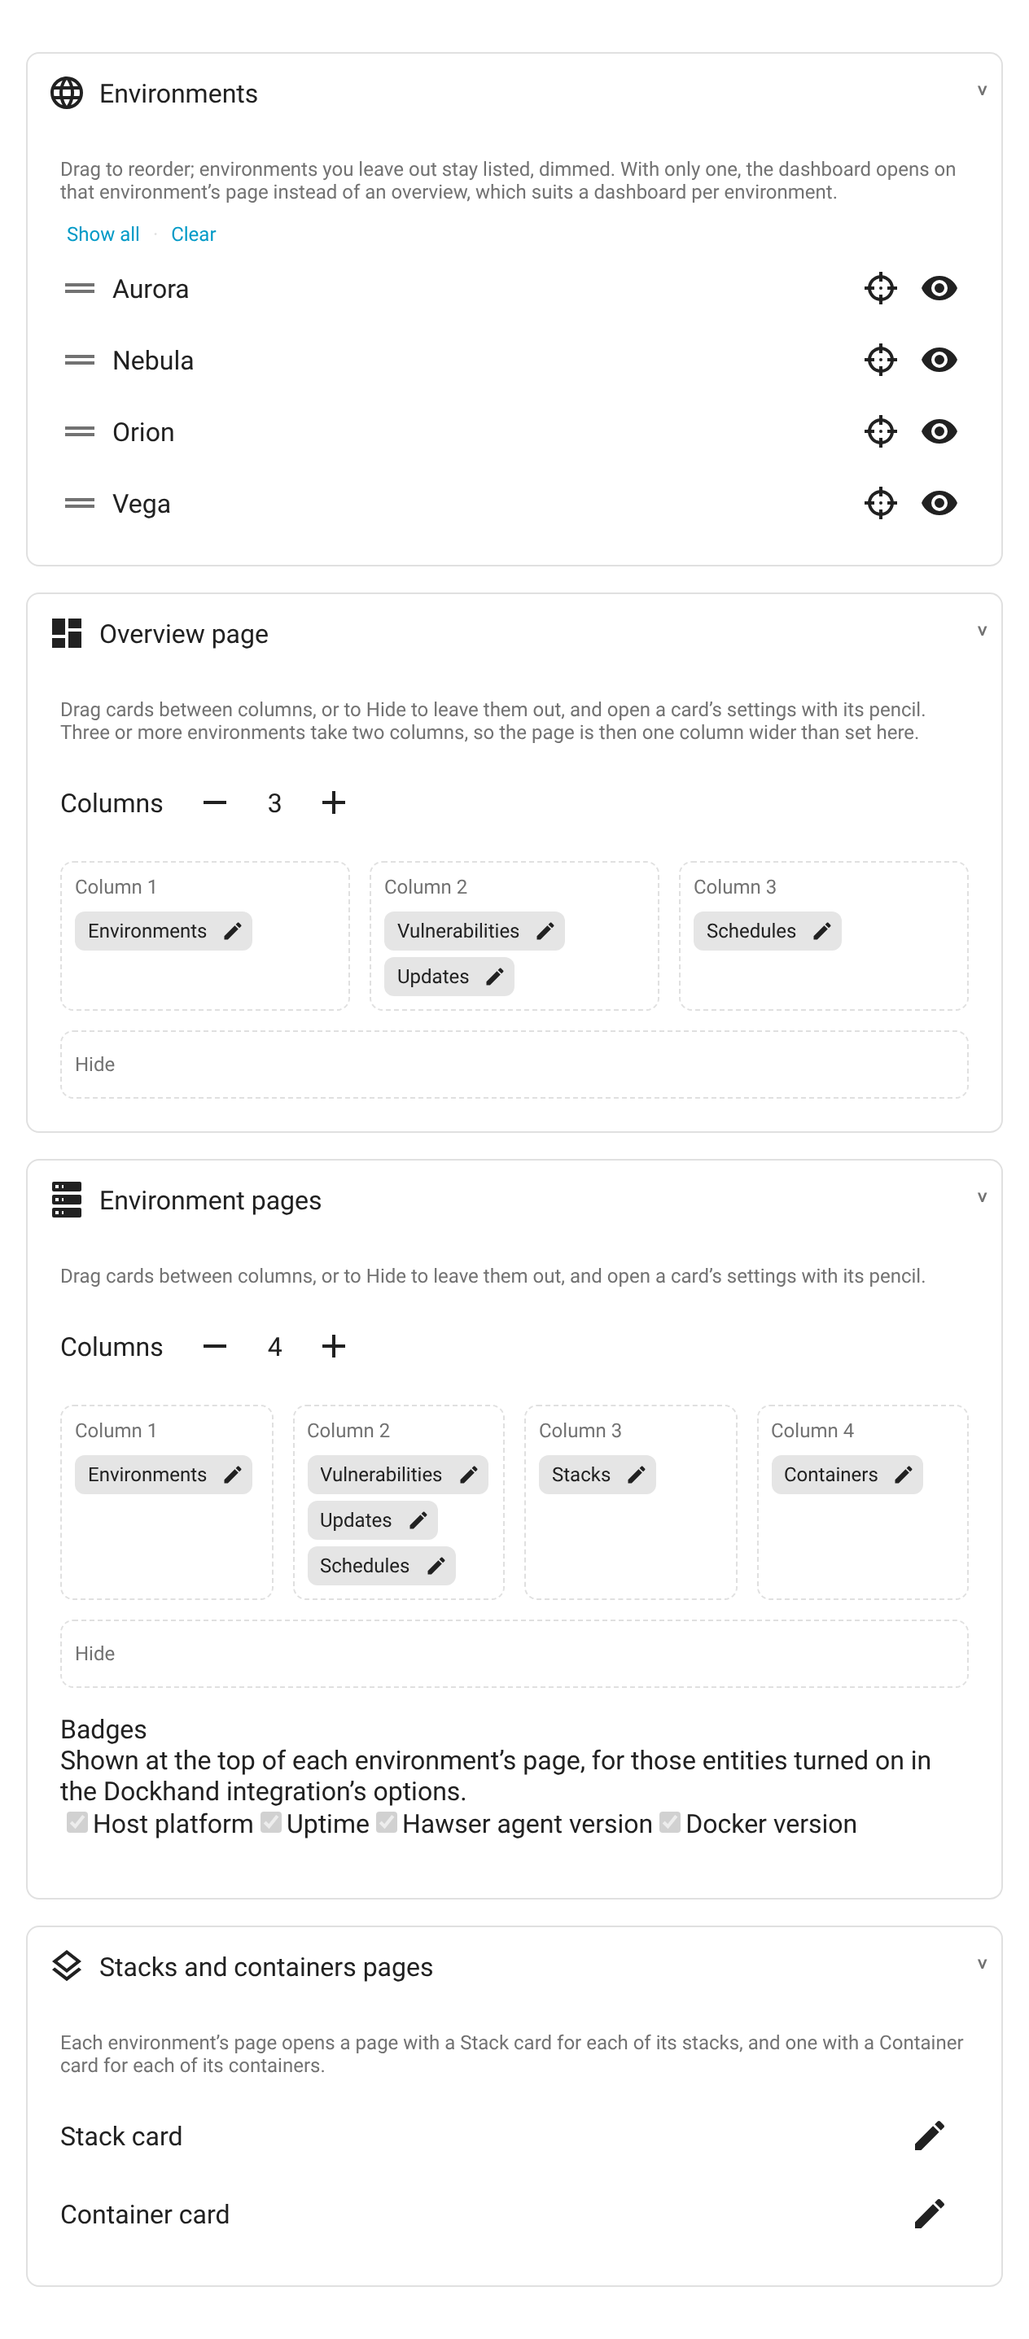
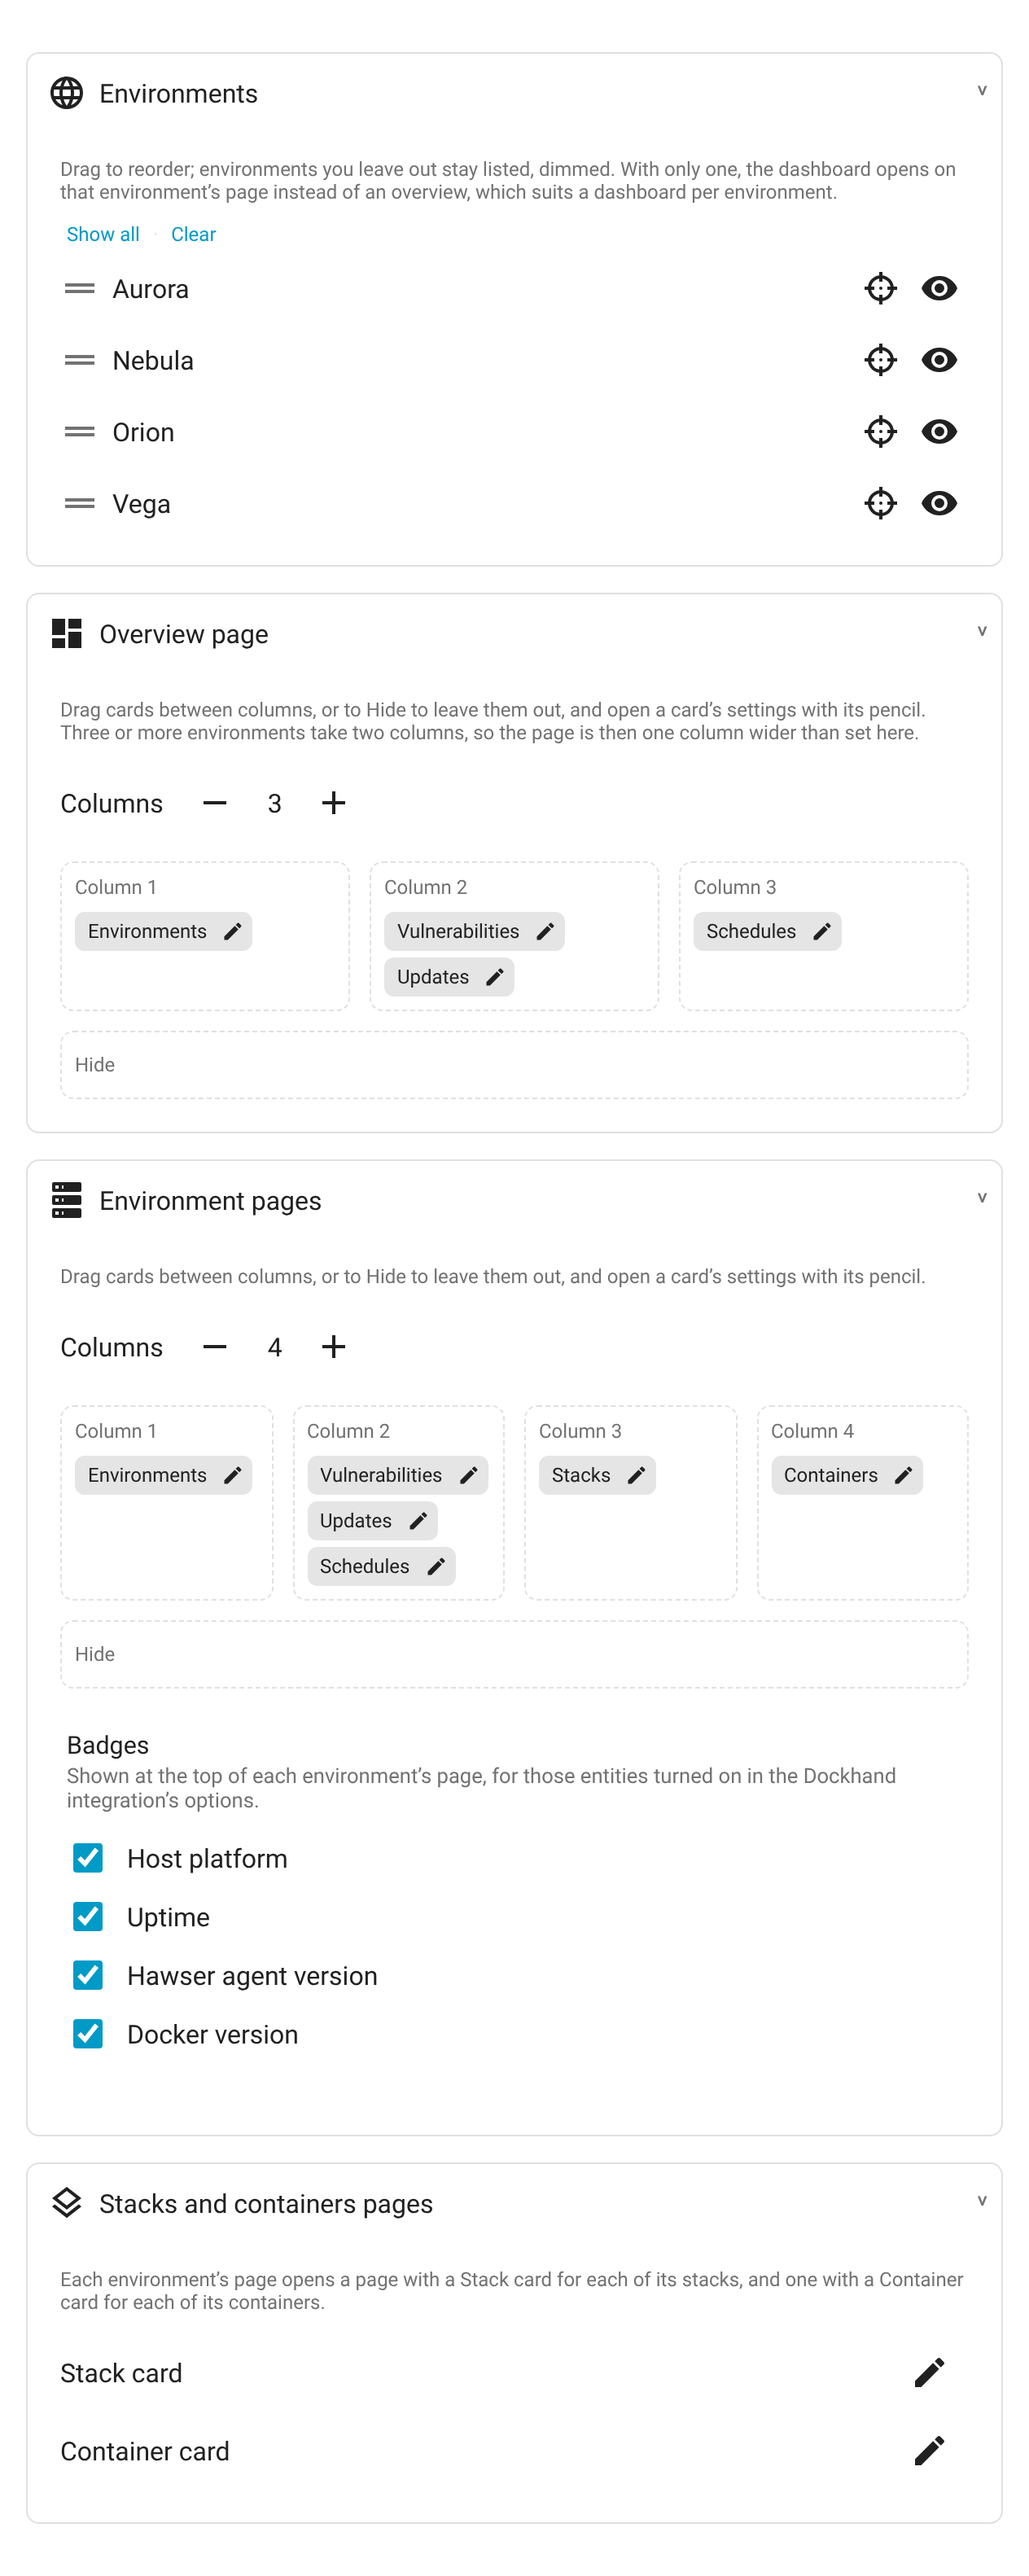
Docs: theme-matched screenshots everywhere, no fold on the Environment card page
Claude-Session: https://claude.ai/code/session_01Y5FKGqp1jA7mdqNGnXYnti

diff --git a/scripts/screenshot-harness/index.html b/scripts/screenshot-harness/index.html
@@ -101,84 +101,6 @@
    * spacing and layout," not a pixel-perfect HA clone — see this
    * directory's README for why that distinction is fine for what this
    * harness is actually for. */
-  .shim-form-row {
-    display: flex;
-    align-items: center;
-    justify-content: space-between;
-    gap: 12px;
-    padding: 10px 4px;
-    border-bottom: 1px solid var(--divider-color);
-    flex-wrap: wrap;
-  }
-  .shim-form-row:last-child {
-    border-bottom: none;
-  }
-  .shim-expansion-panel {
-    border: 1px solid var(--divider-color, #444);
-    border-radius: 8px;
-    margin: 16px 0;
-    overflow: hidden;
-  }
-  .shim-expansion-header {
-    display: flex;
-    align-items: center;
-    gap: 8px;
-    padding: 12px 8px;
-    font-weight: 500;
-  }
-  .shim-expansion-content {
-    padding: 4px 8px 8px;
-    border-top: 1px solid var(--divider-color, #444);
-  }
-  .shim-grid {
-    display: grid;
-    grid-template-columns: repeat(auto-fit, minmax(200px, 1fr));
-    gap: 8px;
-  }
-  .shim-grid-cell .shim-form-row {
-    border-bottom: none;
-  }
-  .shim-form-label-col {
-    flex: 1;
-    min-width: 0;
-  }
-  .shim-form-label {
-    font-size: 0.95em;
-  }
-  .shim-form-helper {
-    font-size: 0.8em;
-    color: var(--secondary-text-color);
-    margin-top: 2px;
-  }
-  .shim-form-warning {
-    flex-basis: 100%;
-    font-size: 0.8em;
-    color: #f59e0b;
-    background: rgba(245, 158, 11, 0.1);
-    padding: 6px 8px;
-    border-radius: 6px;
-  }
-  .shim-select,
-  .shim-textfield {
-    background: var(--primary-background-color);
-    color: var(--primary-text-color);
-    border: 1px solid var(--divider-color);
-    border-radius: 4px;
-    padding: 6px 8px;
-    font-size: 0.9em;
-    min-width: 160px;
-  }
-  .shim-multiselect {
-    display: flex;
-    flex-direction: column;
-    gap: 4px;
-  }
-  .shim-checkbox-row {
-    display: flex;
-    align-items: center;
-    gap: 6px;
-    font-size: 0.9em;
-  }
   /* Stand-in for Home Assistant's sections view (mountDashboard). */
   .dashboard {
     background: var(--primary-background-color);

diff --git a/scripts/screenshot-harness/screenshot.py b/scripts/screenshot-harness/screenshot.py
@@ -34,8 +34,8 @@ CARDS = [
         # Overview is the one card with text outside a card body (its column
         # titles), which is unreadable on a transparent PNG once the README's
         # page background doesn't match the theme. Render it on HA's own
-        # dashboard background instead, in the light theme.
-        {"theme": "light", "backdrop": True},
+        # dashboard background instead.
+        {"backdrop": True},
     ),
 ]
 
@@ -92,15 +92,9 @@ async def main():
 
         for tag, config, filename, width, height, *extra in CARDS:
             opts = extra[0] if extra else {}
-            if "theme" in opts:
-                # Fixed theme: produced once, only by the default (dark) run.
-                if LIGHT:
-                    continue
-                light = opts["theme"] == "light"
-            else:
-                light = LIGHT
-                if LIGHT:
-                    filename = filename.replace(".png", "-light.png")
+            light = LIGHT
+            if LIGHT:
+                filename = filename.replace(".png", "-light.png")
             if light not in pages:
                 pages[light] = await _open_page(browser, light)
             page = pages[light]

diff --git a/docs/quality.md b/docs/quality.md
@@ -15,7 +15,7 @@ That's the actual bar. Everything below this line is a self-imposed checklist bu
 - [x] `hacs.json` with `name` and `filename` (no `content_in_root` override — matches `custom-cards/boilerplate-card` exactly, since the bundle isn't in the repo tree at all, only ever delivered as a release asset; see `docs/development.md` → "Branches and releases" for how that's confirmed to be how HACS actually resolves it)
 - [x] Public GitHub repo, MIT `LICENSE`
 - [x] README with install instructions and a screenshot of every card, linking to each card's config reference in `docs/cards/` and the dashboard's in `docs/dashboard.md` (screenshots via `scripts/screenshot-harness/` — real rendered output against fictional mock data, not a live instance)
-- [ ] GitHub repo description + topics set (`home-assistant`, `hacs`, `lovelace`, `home-assistant-card`, `dockhand`) — set on GitHub itself, not in this repo
+- [x] GitHub repo description and topics set — on GitHub itself, not in this repo
 - [x] Tagged GitHub releases with the bundle attached as a release asset (not committed to `main`)
 - [x] A `my.home-assistant.io` Marketplace badge in the README
 
@@ -41,9 +41,9 @@ That's the actual bar. Everything below this line is a self-imposed checklist bu
 - [x] Graceful degradation: disabled/missing entities never throw or render a broken layout — either the specific value shows a neutral placeholder, or (for whole sections with no backing data, like detailed mode's top-containers/recent-events) the section is omitted entirely rather than shown empty. The one exception — a card with genuinely nothing else to show (device not found, core sensor missing) — always pairs its message with a warning icon (`.core-message` in shared-styles.ts) rather than showing unstyled text
 - [x] Respects HA theme variables — no hardcoded light/dark assumptions in `ha-card` chrome
 - [x] Theme-overridable status/severity colors via documented CSS custom properties, and a stable class-name structure for card_mod — see `docs/styling.md`
-- [ ] Keyboard navigation manually tested in a real browser (implemented via `tabindex`/`role`/ `@keydown`, not yet verified against a screen reader)
-- [ ] Tested against both light and dark default HA themes on a live instance
-- [ ] Tested at narrow (mobile) card widths
+- [ ] Keyboard navigation and a screen reader tested by hand (implemented via `tabindex`/`role`/`@keydown`, and axe-core passes in both themes; not planned unless someone reports a problem)
+- [x] Tested against both light and dark default HA themes on a live instance
+- [x] Tested at narrow (mobile) card widths
 
 ## Known gaps (tracked, not blocking)
 

diff --git a/CHANGELOG.md b/CHANGELOG.md
@@ -60,6 +60,7 @@ Some changes are breaking: update the Dockhand integration to 2.0.0 at the same 
 
 ### Internal
 
+- Every screenshot in the docs follows the reader's light or dark theme (the Overview card and the Environment card's other layouts were dark or light only), the Environment card's layouts are labelled instead of folded away, and the dashboard settings screenshot lists the badge choices one to a row, as Home Assistant does.
 - Test and screenshot data now look like Home Assistant's own: entity entries as the display registry sends them, devices with ha-dockhand's real identifiers, names and group devices, and container attributes as the integration sets them (`docs/development.md` → "Test data looks like Home Assistant's").
 - The README is shorter: one screenshot and a sentence per card, each linking to a page of its own under `docs/cards/` with its options and details, plus `docs/cards/lists.md` for choosing environments and filtering, and `docs/dashboard.md` for the Dockhand dashboard. Screenshots show the light or dark version to match the reader's GitHub theme instead of both side by side.
 - The README shows the Dockhand dashboard (its overview, an environment's page, a Containers page and its settings), rendered by the screenshot harness from the real strategies; the harness's panels now look like Home Assistant's.

diff --git a/docs/cards/environment.md b/docs/cards/environment.md
@@ -22,16 +22,30 @@ Four built-in layouts, plus your own:
 
 Icons in the header show the environment's update checks (or auto-update, when on), vulnerability scanning, activity collection and metrics collection: colored when on, grey when off. Click one to change it; scanning opens the scanner choice.
 
+**Compact**
+
+<picture>
+  <source media="(prefers-color-scheme: light)" srcset="../images/env-compact-light.png">
+  <img src="../images/env-compact.png" alt="Environment card, compact mode" width="420">
+</picture>
+
+**Standard**
+
 <picture>
   <source media="(prefers-color-scheme: light)" srcset="../images/env-standard-light.png">
   <img src="../images/env-standard.png" alt="Environment card, standard mode" width="420">
 </picture>
 
-<details>
-<summary>Compact, detailed, and full modes</summary>
-<p>
-  <img src="../images/env-compact.png" alt="Environment card, compact mode" width="420">
+**Detailed**
+
+<picture>
+  <source media="(prefers-color-scheme: light)" srcset="../images/env-detailed-light.png">
   <img src="../images/env-detailed.png" alt="Environment card, detailed mode" width="420">
+</picture>
+
+**Full**
+
+<picture>
+  <source media="(prefers-color-scheme: light)" srcset="../images/env-full-light.png">
   <img src="../images/env-full.png" alt="Environment card, full mode" width="420">
-</p>
-</details>
+</picture>

diff --git a/docs/cards/overview.md b/docs/cards/overview.md
@@ -20,6 +20,9 @@ Both the environments and the sections can be dragged into a different order in 
 - **On a section** — defaults for that card type in every column, such as the Environment card's layout or which row details the Stacks and Containers cards show.
 - **On an environment** — settings for just that environment's column, including a different name, stored under `environments_overrides`.
 
-<img src="../images/overview.png" alt="Overview card: Environments + Stacks + Containers, light theme" width="920">
+<picture>
+  <source media="(prefers-color-scheme: light)" srcset="../images/overview-light.png">
+  <img src="../images/overview.png" alt="Overview card: Environments, Stacks and Containers" width="920">
+</picture>
 
 *Environments, Stacks and Containers turned on, across two environments.*

diff --git a/README.md b/README.md
@@ -139,7 +139,10 @@ Every Dockhand schedule with its status and next run, and optional Run now and e
 
 A whole dashboard in one card: a column per environment, with the cards you choose in each. **[Options and details](https://github.com/raetha/ha-dockhand-cards/blob/main/docs/cards/overview.md)**
 
-<img src="docs/images/overview.png" alt="Overview card: Environments + Stacks + Containers, light theme" width="920">
+<picture>
+  <source media="(prefers-color-scheme: light)" srcset="docs/images/overview-light.png">
+  <img src="docs/images/overview.png" alt="Overview card: Environments, Stacks and Containers" width="920">
+</picture>
 
 Suggestions for what the cards should show are welcome: open an issue.
 
